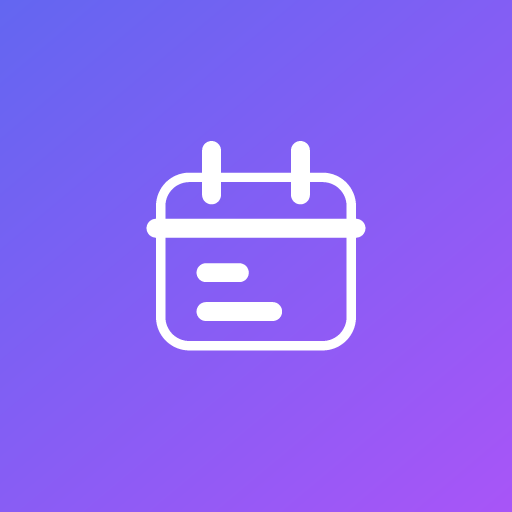
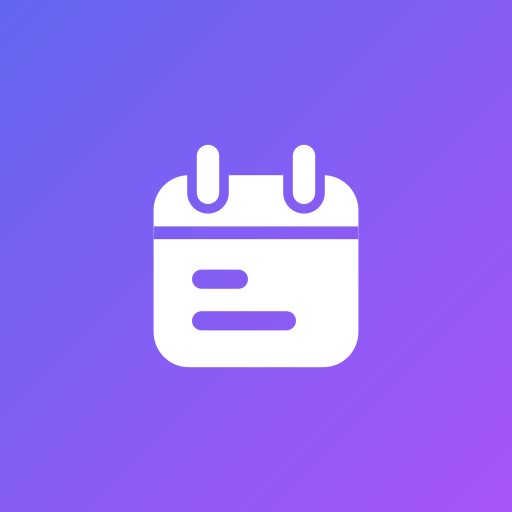
Nova ikona: minimalističen koledar z dvema črtama na indigo prelivu

Changed region(s): [[0.2812, 0.25, 0.7188, 0.7188]]

diff --git a/CLAUDE.md b/CLAUDE.md
@@ -116,3 +116,11 @@ every `push:*` subscription row except the event's creator.
 - Never put a Supabase `service_role` key in client code (`index.html`, `skupni-koledar.jsx`, or
   `supabase-schema.sql`) — only the `anon`/publishable key belongs there. The service_role key exists only
   in the Edge Function's environment (Supabase dashboard secrets).
+
+## Ikona aplikacije
+
+`icon.svg` (2026-10-25) is the source of the app icon. It has a diagonal gradient #6366f1 → #a855f7, a solid white calendar with two rings, and cut-outs: a header line plus a short and a long line. The style matches the Komadi icon.
+
+- Generated files: `icon-192.png`, `icon-512.png`, `icon-192-maskable.png`, `icon-512-maskable.png`, `apple-touch-icon.png`.
+- On the maskable and apple-touch icons the calendar is drawn smaller (scale 0.8 instead of 1.1), so the phone doesn't crop it.
+- The Dogodki card in TomStudios (`apps-registry.js`) must always show the same solid calendar.
